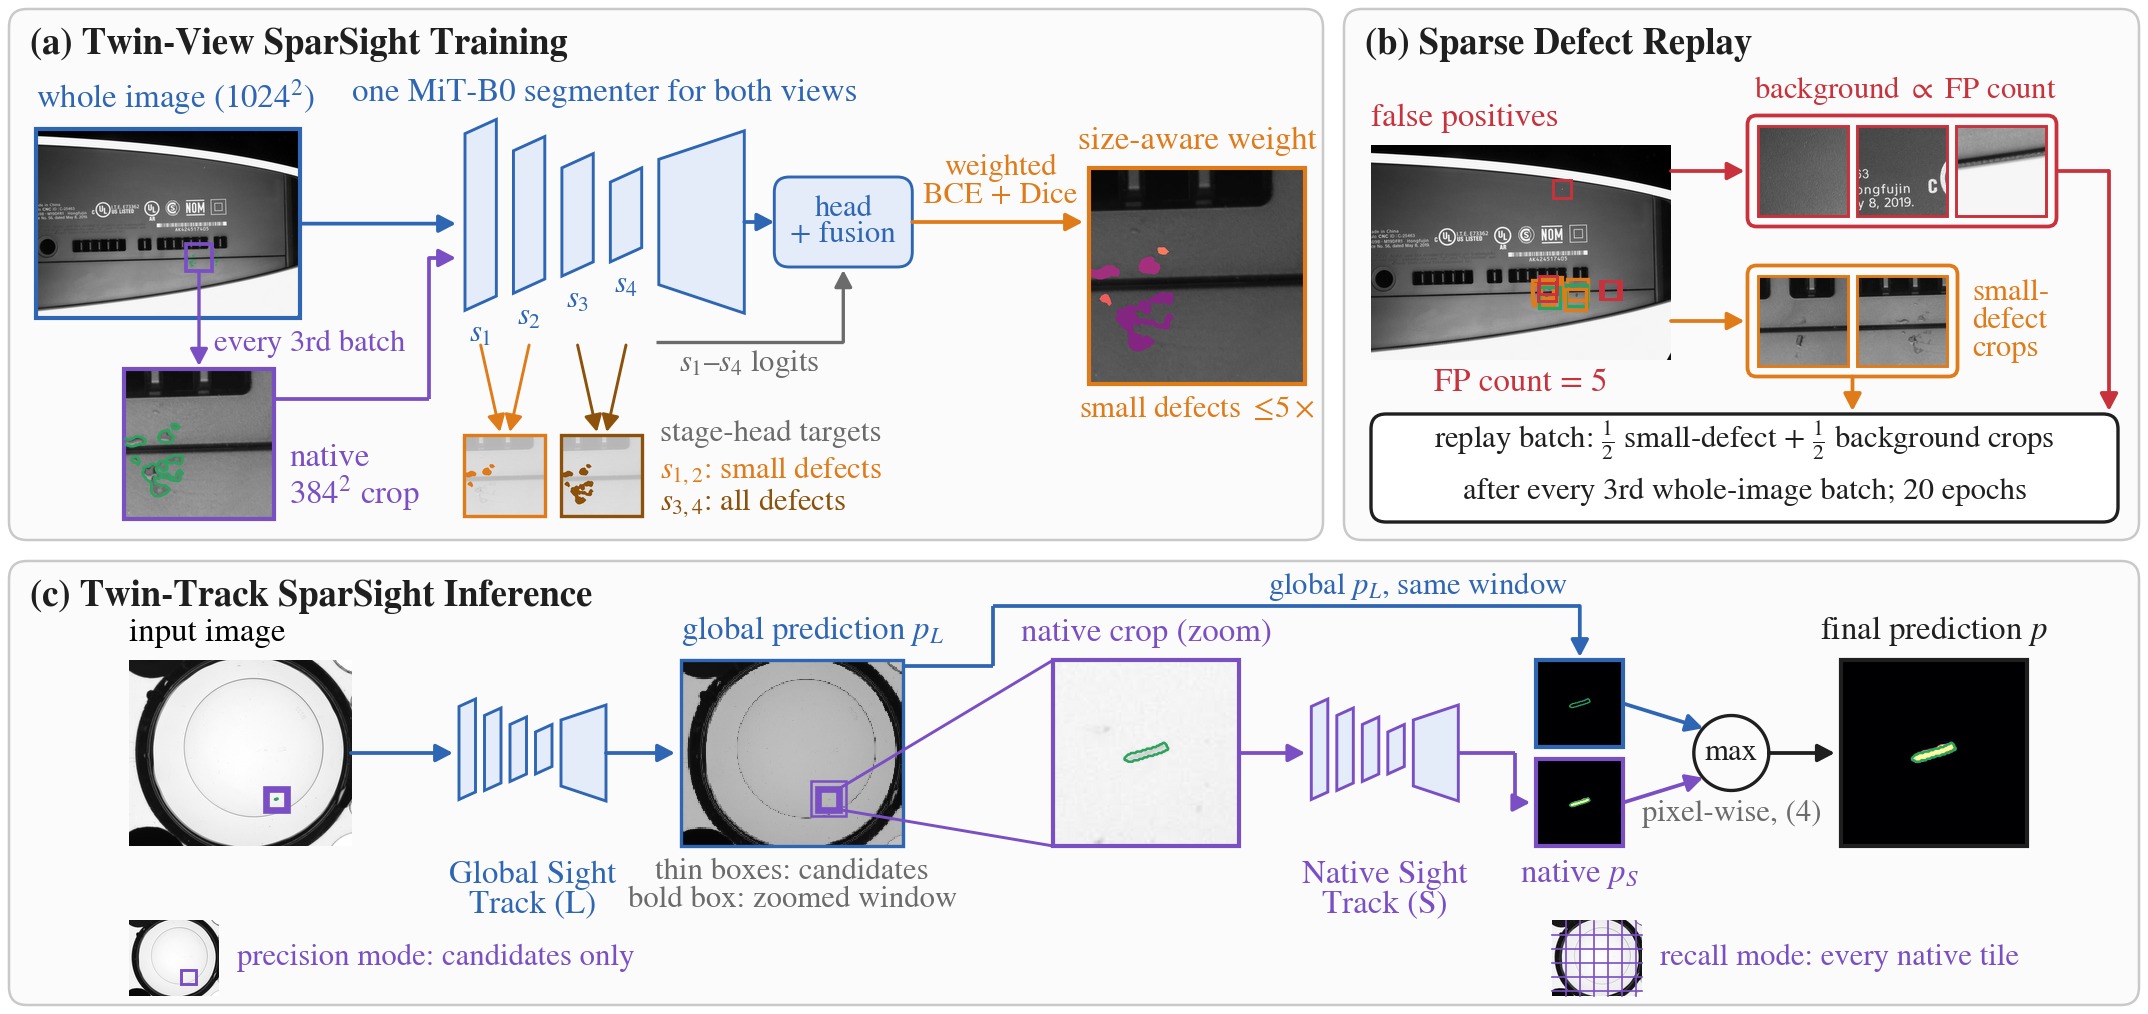
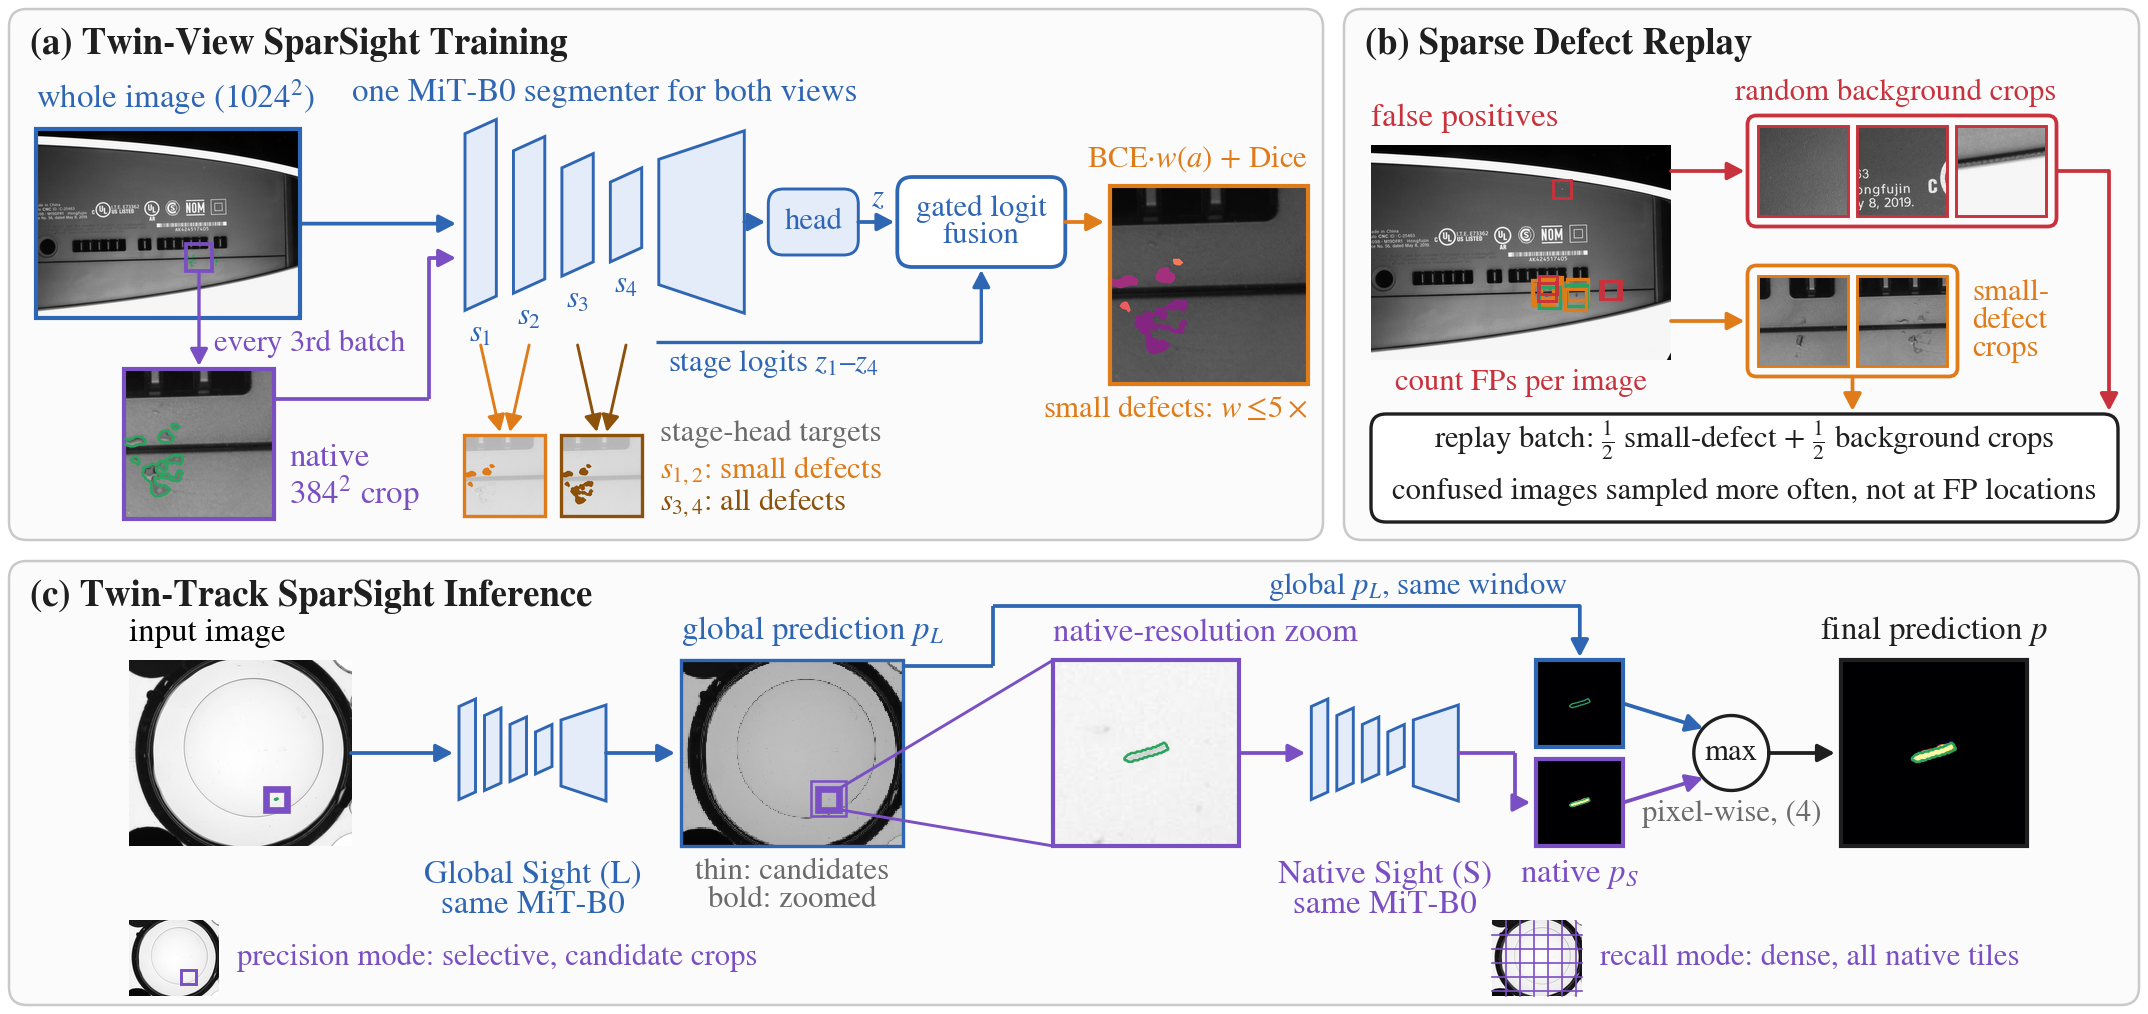
Fig. 1 (redesign) script and overview figure

diff --git a/tools/figures/fig1_framework.py b/tools/figures/fig1_framework.py
@@ -180,20 +180,22 @@ def draw(out_dir):
     seg(ax, [(wx + ww, wy + wh / 2), (nx - 0.03, wy + wh / 2)], c=LOW)
     seg(ax, [(cx_n + cs_n, cy_n + cs_n * 0.8), (1.43, cy_n + cs_n * 0.8), (1.43, ny - 0.12), (nx - 0.03, ny - 0.12)],
         c=NAT)
-    # main head -> size-aware weighted target
-    # main head with the gated fusion of the stage heads (s1, s2 evidence, s3, s4 gate), used at inference
-    hw_ = 0.46
-    rbox(ax, xe + 0.10, ny - 0.15, hw_, 0.30, fc=NETF, ec=LOW)
-    ax.text(xe + 0.10 + hw_ / 2, ny, "head\n+ fusion", ha="center", va="center", fontsize=SMALL, color=LOW, zorder=5,
+    # main head (logit z) -> gated logit fusion with the stage-head logits z1-z4 -> size-aware loss on the fused logit
+    hb_x, hb_w = xe + 0.08, 0.30
+    rbox(ax, hb_x, ny - 0.11, hb_w, 0.22, fc=NETF, ec=LOW)
+    ax.text(hb_x + hb_w / 2, ny, "head", ha="center", va="center", fontsize=SMALL, color=LOW, zorder=5)
+    seg(ax, [(xe, ny), (hb_x - 0.01, ny)], c=LOW)
+    fb_x, fb_w = hb_x + hb_w + 0.13, 0.56
+    rbox(ax, fb_x, ny - 0.15, fb_w, 0.30, fc="white", ec=LOW, lw=0.9)
+    ax.text(fb_x + fb_w / 2, ny, "gated logit\nfusion", ha="center", va="center", fontsize=SMALL, color=LOW, zorder=5,
             linespacing=0.95)
-    seg(ax, [(xe, ny), (xe + 0.10, ny)], c=LOW)
-    tx, ty, ts = 3.63, 2.44, 0.72
+    seg(ax, [(hb_x + hb_w, ny), (fb_x - 0.01, ny)], c=LOW)
+    ax.text(hb_x + hb_w + 0.065, ny + 0.03, "$z$", ha="center", va="bottom", fontsize=SMALL, color=LOW)
+    tx, ty, ts = 3.70, 2.44, 0.66
     img(ax, wblend(T["native"], T["native_w"], T["native_g"]), tx, ty, ts, ts, ec=SIZE, lw=1.0)
-    seg(ax, [(xe + 0.10 + hw_, ny), (tx - 0.02, ny)], c=SIZE)
-    ax.text((xe + 0.10 + hw_ + tx) / 2, ny + 0.04, "weighted\nBCE + Dice", fontsize=SMALL, color=SIZE, ha="center",
-            va="bottom", linespacing=1.0)
-    ax.text(tx + ts / 2, ty + ts + 0.04, "size-aware weight", ha="center", va="bottom", fontsize=LAB, color=SIZE)
-    ax.text(tx + ts / 2, ty - 0.04, "small defects $\\leq\\!5\\times$", ha="center", va="top", fontsize=SMALL,
+    seg(ax, [(fb_x + fb_w, ny), (tx - 0.02, ny)], c=SIZE)
+    ax.text(tx + ts, ty + ts + 0.04, "BCE$\\cdot w(a)$ + Dice", ha="right", va="bottom", fontsize=SMALL, color=SIZE)
+    ax.text(tx + ts, ty - 0.04, "small defects: $w\\leq\\!5\\times$", ha="right", va="top", fontsize=SMALL,
             color=SIZE)
     # stage heads, training only
     # stage heads (training only), right under the encoder stages: s1, s2 -> small-defect targets, s3, s4 -> all
@@ -211,11 +213,10 @@ def draw(out_dir):
         seg(ax, [(x, 2.57), (cc + (x - cc) * 0.2, sy + 0.02 + tb + 0.01)], c=SIZE if i < 2 else ALL, lw=0.7)
     lx = cB + tb / 2 + 0.06
     ax.text(lx, sy + st, "stage-head targets", fontsize=SMALL, color=MUTED, va="top")
-    # the stage-head logits s1-s4 also enter the gated fusion of the main head (used at inference too)
-    fx0, fy0, hx_ = sxs[3] + 0.10, ny - 0.40, xe + 0.10 + hw_ / 2
-    seg(ax, [(fx0, fy0), (hx_, fy0), (hx_, ny - 0.16)], c=MUTED, lw=0.8)
-    ax.text((fx0 + hx_) / 2, fy0 - 0.02, "$s_1$\u2013$s_4$ logits", fontsize=SMALL, color=MUTED, va="top",
-            ha="center")
+    # the stage-head logits z1-z4 enter the gated fusion (used at inference too)
+    fx0, fy0, hx_ = sxs[3] + 0.10, ny - 0.40, fb_x + fb_w / 2
+    seg(ax, [(fx0, fy0), (hx_, fy0), (hx_, ny - 0.16)], c=LOW, lw=0.8)
+    ax.text(fx0 + 0.04, fy0 - 0.02, "stage logits $z_1$\u2013$z_4$", fontsize=SMALL, color=LOW, va="top", ha="left")
     ax.text(lx, sy + 0.17, "$s_{1,2}$: small defects", fontsize=SMALL, color=SIZE, va="center")
     ax.text(lx, sy + 0.01, "$s_{3,4}$: all defects", fontsize=SMALL, color=ALL, va="bottom")
 
@@ -243,7 +244,7 @@ def draw(out_dir):
         ax.add_patch(Rectangle((rx + fx * s_ - 0.03, ry + rh - fy * s_ - 0.03), 0.06, 0.06, fc="none", ec=REP, lw=0.7,
                                zorder=6))
     ax.text(rx, ry + rh + 0.04, "false positives", fontsize=LAB, color=REP, va="bottom")
-    ax.text(rx + rwid / 2, ry - 0.03, f"FP count = {k_fp}", fontsize=LAB, color=REP, ha="center", va="top")
+    ax.text(rx + rwid / 2, ry - 0.03, "count FPs per image", fontsize=SMALL, color=REP, ha="center", va="top")
     # the two crop sets, each framed as one group
     cs, gp, gx0 = 0.30, 0.03, 5.86
     bgy, psy = 3.00, 2.50
@@ -256,7 +257,7 @@ def draw(out_dir):
     ps_x1 = gx0 + 2 * cs + gp + pad
     rbox(ax, gx0 - pad, bgy - pad, bg_x1 - gx0 + pad, cs + 2 * pad, fc="none", ec=REP, lw=0.9, r=0.03, z=5)
     rbox(ax, gx0 - pad, psy - pad, ps_x1 - gx0 + pad, cs + 2 * pad, fc="none", ec=SIZE, lw=0.9, r=0.03, z=5)
-    ax.text(bg_x1, bgy + cs + pad + 0.03, "background $\\propto$ FP count", fontsize=SMALL, color=REP, va="bottom",
+    ax.text(bg_x1, bgy + cs + pad + 0.03, "random background crops", fontsize=SMALL, color=REP, va="bottom",
             ha="right")
     ax.text(ps_x1 + 0.05, psy + cs / 2, "small-\ndefect\ncrops", fontsize=SMALL, color=SIZE, va="center",
             linespacing=1.0)
@@ -266,7 +267,7 @@ def draw(out_dir):
     rbox(ax, 4.57, 1.98, 2.49, 0.36, fc="white", ec=INK, lw=0.8)
     ax.text(5.815, 2.25, "replay batch: $\\frac{1}{2}$ small-defect + $\\frac{1}{2}$ background crops", ha="center",
             va="center", fontsize=SMALL, color=INK)
-    ax.text(5.815, 2.08, "after every 3rd whole-image batch; 20 epochs", ha="center", va="center", fontsize=SMALL,
+    ax.text(5.815, 2.08, "confused images sampled more often, not at FP locations", ha="center", va="center", fontsize=SMALL,
             color=INK)
     seg(ax, [((gx0 - pad + ps_x1) / 2, psy - pad), ((gx0 - pad + ps_x1) / 2, 2.35)], c=SIZE)
     seg(ax, [(bg_x1, bgy + cs / 2), (7.03, bgy + cs / 2), (7.03, 2.35)], c=REP)
@@ -293,7 +294,7 @@ def draw(out_dir):
     gx0n = ix + iw + 0.36
     xe = net(ax, gx0n, ly, 0.5, LOW, label=False, stages=False)
     seg(ax, [(ix + iw, ly), (gx0n - 0.02, ly)], c=LOW)
-    ax.text((gx0n + xe) / 2, iy - 0.05, "Global Sight\nTrack (L)", fontsize=LAB, color=LOW, ha="center", va="top",
+    ax.text((gx0n + xe) / 2, iy - 0.05, "Global Sight (L)\nsame MiT-B0", fontsize=LAB, color=LOW, ha="center", va="top",
             linespacing=1.0)
     # every prediction is drawn as in Fig. 2: probability map (inferno), ground truth in green
     px, pw = xe + 0.25, iw
@@ -307,7 +308,7 @@ def draw(out_dir):
     contour(ax, I["L"] > 0.5, px, iy, pw, ih, c="#ffd23f", lw=0.9)  # predicted regions, outlined like the GT
     seg(ax, [(xe, ly), (px - 0.02, ly)], c=LOW)
     ax.text(px, iy + ih + 0.04, "global prediction $p_L$", fontsize=LAB, color=LOW, va="bottom")
-    ax.text(px + pw / 2, iy - 0.04, "thin boxes: candidates\nbold box: zoomed window", fontsize=SMALL,
+    ax.text(px + pw / 2, iy - 0.04, "thin: candidates\nbold: zoomed", fontsize=SMALL,
             color=MUTED, ha="center", va="top", linespacing=1.0)
     b = 384 * 900 / I["full_hw"][1] * pw / iW
     for cx_, cy_, _ in I["cand"]:  # all candidates; thin, so the predicted outlines stay visible
@@ -331,7 +332,8 @@ def draw(out_dir):
             return
         ax.text(x + sz / 2, y + sz + 0.04, lab, ha="center", va="bottom", fontsize=LAB, color=col)
 
-    crop_panel(zi, zx0, NAT, "native crop (zoom)", NAT)
+    crop_panel(zi, zx0, NAT, "", NAT)
+    ax.text(zx0, zy0 + zs + 0.04, "native-resolution zoom", ha="left", va="bottom", fontsize=LAB, color=NAT)
     cbx = px + (zb[0] + zb[2]) * pw / iW
     # the window shown in the zoomed panels, boxed on the input and the global prediction (bold), and joined to the
     # native-crop panel by two straight zoom lines
@@ -346,9 +348,9 @@ def draw(out_dir):
     bx1, by0, by1 = wbox(px, pw)
     for yb_, yz_ in ((by1, zy0 + zs), (by0, zy0)):
         ax.plot([bx1, zx0], [yb_, yz_], color=NAT, lw=0.7, zorder=8)
-    xe2 = net(ax, zx0 + zs + 0.24, zy0 + zs / 2, 0.5, NAT, label=False, stages=False)
+    xe2 = net(ax, zx0 + zs + 0.24, zy0 + zs / 2, 0.5, LOW, label=False, stages=False)  # same network icon/colour
     seg(ax, [(zx0 + zs, zy0 + zs / 2), (zx0 + zs + 0.22, zy0 + zs / 2)], c=NAT)
-    ax.text((zx0 + zs + 0.24 + xe2) / 2, iy - 0.05, "Native Sight\nTrack (S)", fontsize=LAB, color=NAT, ha="center",
+    ax.text((zx0 + zs + 0.24 + xe2) / 2, iy - 0.05, "Native Sight (S)\nsame MiT-B0", fontsize=LAB, color=NAT, ha="center",
             va="top", linespacing=1.0)
     # the merge (Eq. 3) on the same window: global p_L (top, from the global prediction) and native p_S (bottom)
     cz = (zs - 0.04) / 2
@@ -383,9 +385,9 @@ def draw(out_dir):
     for cx_, cy_, _ in I["cand"]:
         clipped_box(ax, modes_x + cx_ * mt / iW - t / 2, my + th - cy_ * mt / iW - t / 2, t, t, modes_x, my, mt, th,
                     ec=NAT, lw=0.7, zorder=7)
-    ax.text(modes_x + mt + 0.06, my + th / 2, "precision mode: candidates only", fontsize=SMALL, color=NAT,
+    ax.text(modes_x + mt + 0.06, my + th / 2, "precision mode: selective, candidate crops", fontsize=SMALL, color=NAT,
             va="center")
-    rt = ax.text(ix + row_w, my + th / 2, "recall mode: every native tile", fontsize=SMALL, color=NAT,
+    rt = ax.text(ix + row_w, my + th / 2, "recall mode: dense, all native tiles", fontsize=SMALL, color=NAT,
                  va="center", ha="right")
     bb = rt.get_window_extent(renderer=fig.canvas.get_renderer()).transformed(ax.transData.inverted())
     rx2 = bb.x0 - 0.06 - mt
